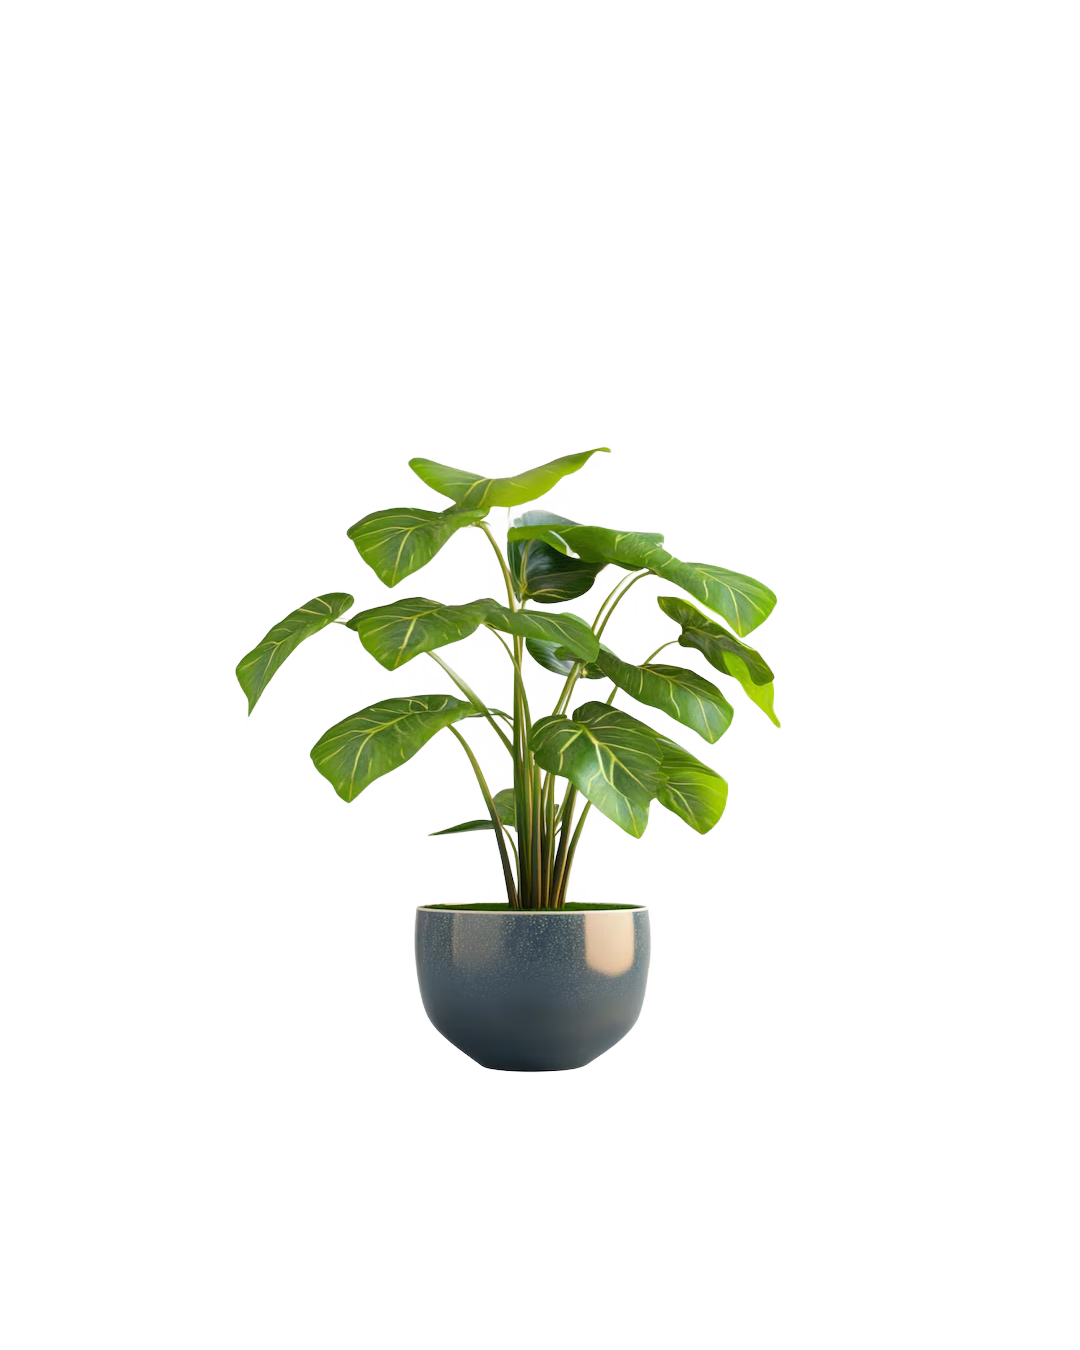
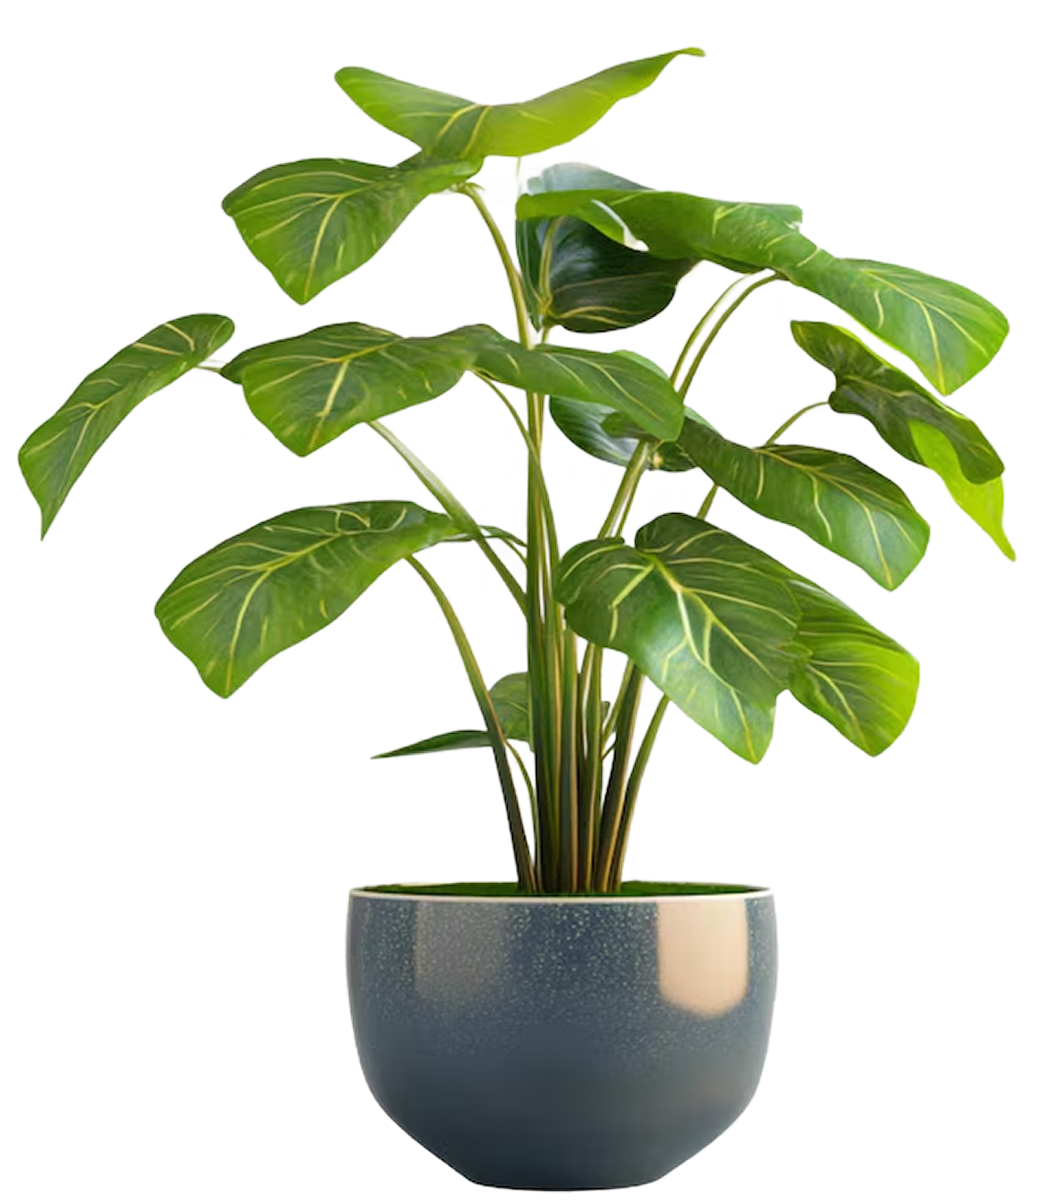
Enhance animations in Home component; update image transition effects and adjust timing for improved visual impact

diff --git a/src/components/Home.jsx b/src/components/Home.jsx
@@ -17,21 +17,26 @@ function Home() {
   useGSAP(
     () => {
       const tl = gsap.timeline();
-        tl.from(".Home_left", {
+        // tl.from(".Home_left", {
+        //   opacity: 0,
+        //   x: -100,
+        //   duration: 0.8,
+        // });
+        gsap.from(".Home_Right_imgg img", {
           opacity: 0,
-          x: -100,
-          duration: 0.8,
-        });
-        tl.from(
+          y: 100,
+          scale: 0,
+          duration: 2,
+        },);
+        gsap.from(
           ".Home_Right_info",
           {
             opacity: 0,
-            y: 100,
-            delay: 0.5,
-            duration: 1.5,
+            y: 150,
+            duration: 2,
           },
-          "-=0.4",
-        );
+          
+        );  
     },
     
   );
@@ -79,14 +84,10 @@ function Home() {
         </div>
       </div>
       <div
-        className="Home_Right h-full w-[60%] relative"
-        style={{
-          backgroundImage: `url(${img1})`,
-          backgroundSize: "cover",
-          backgroundRepeat: "no-repeat",
-          backgroundPosition: "0% 70%",
-        }}
-      >
+        className="Home_Right h-full w-[60%] relative">
+          <div className="Home_Right_imgg absolute top-0 right-0 h-full w-[60%]">
+            <img className="h-full w-full object-cover" src={img1} alt="" />
+          </div>
         <Nav className="absolute top-0 right-10" />
         <div className="Home_Right_info absolute top-45 left-0">
           <div className="info1 p-2 shadow-[0_8px_30px_rgba(0,0,0,0.1)] rounded-lg text-left flex  bg-[#FFFFFF] ">